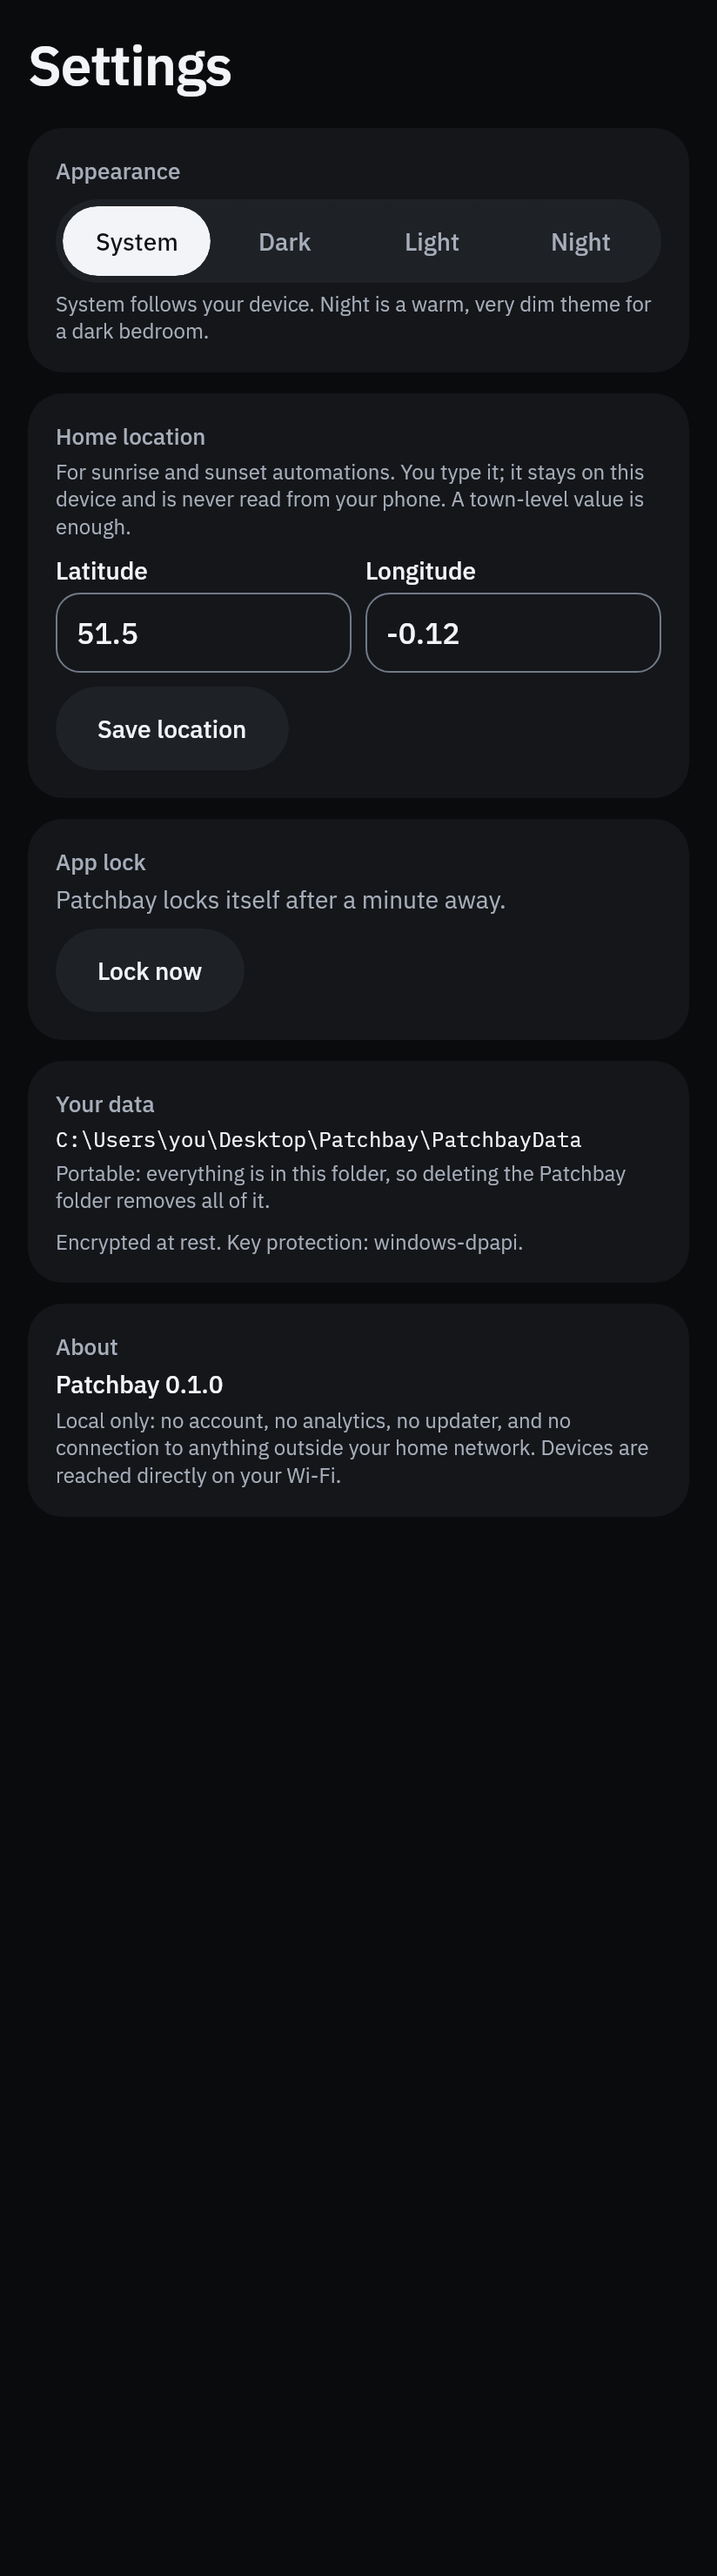
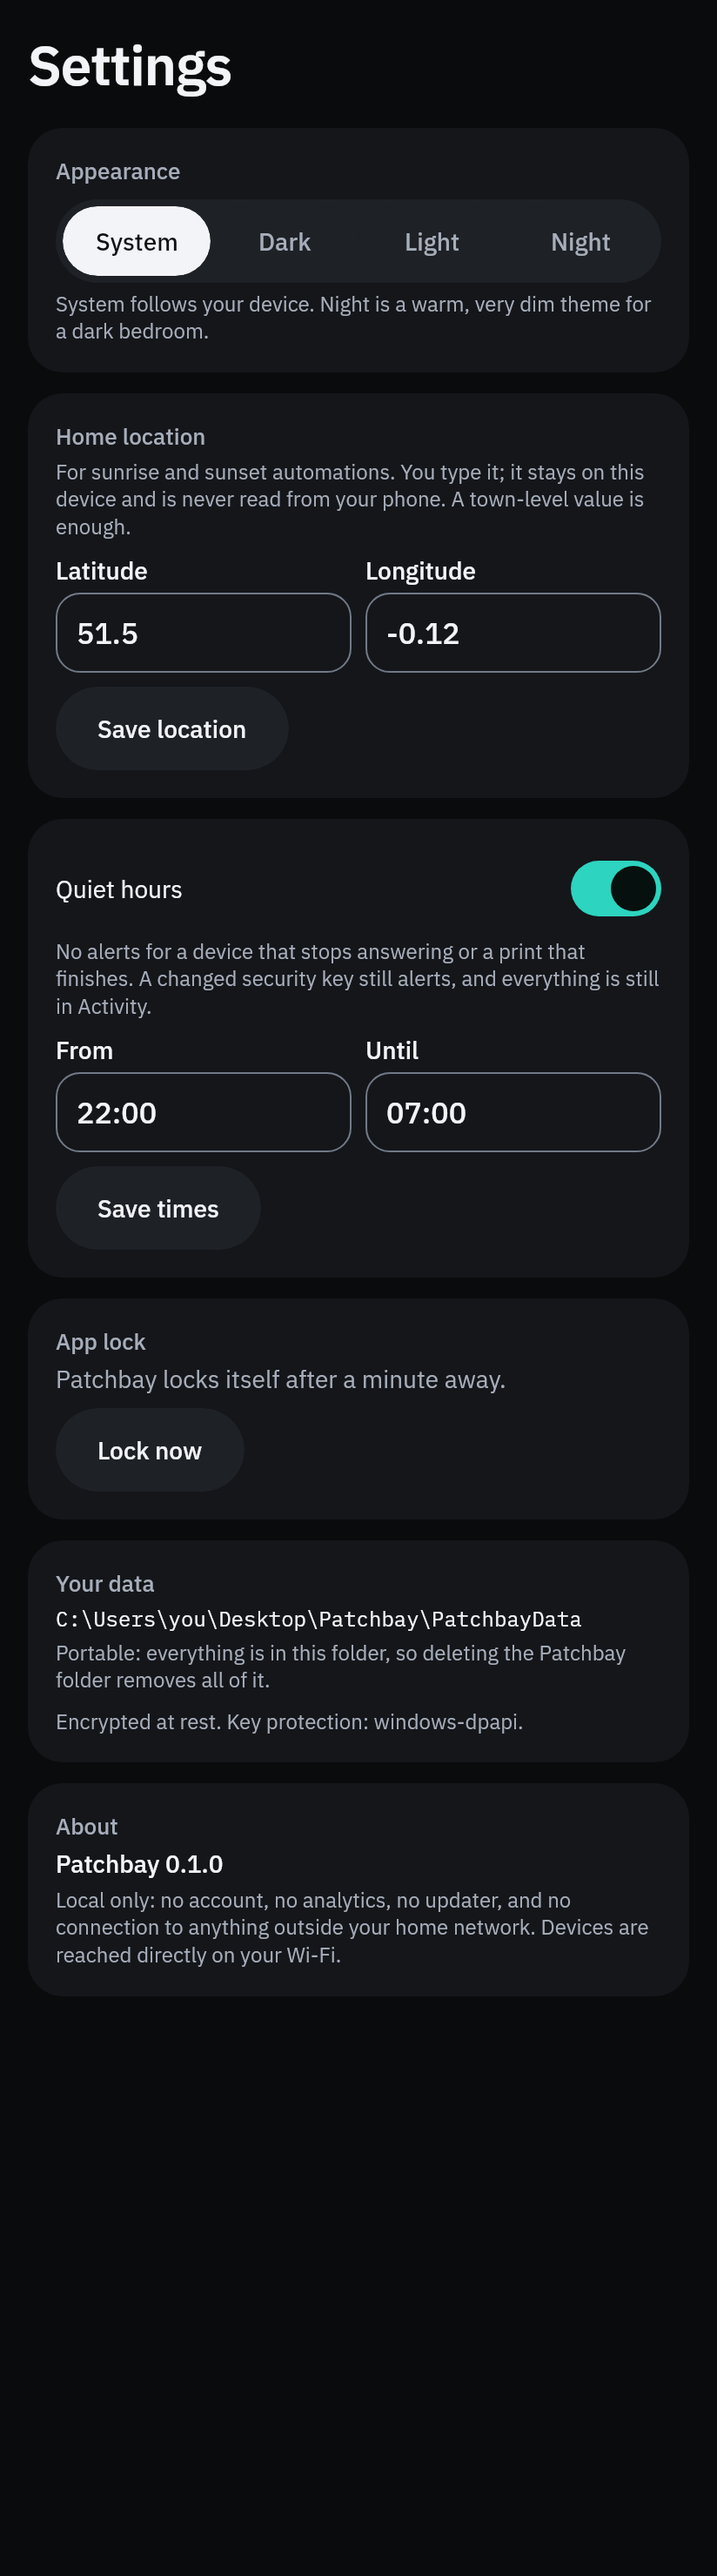
docs: re-record the design screenshots (quiet-hours panel, command-bar rail)
Claude-Session: https://claude.ai/code/session_01VKgrBEm7ZaxNZiCGqfgE4v

Changed region(s): [[0.0607, 0.3108, 0.8495, 0.6838], [0.091, 0.7149, 0.4551, 0.777], [0.7888, 0.3108, 0.8799, 0.373]]

diff --git a/docs/design/screens/README.md b/docs/design/screens/README.md
@@ -2,7 +2,7 @@
 
 These PNGs are rendered by `ui/src/desktopTest/.../ScreenshotTest.kt` from the deterministic demo home.
 
-**Recorded 2026-11-09** from the CI render of commit `218e25a` (34 PNGs: light, dark and night, phone and desktop, including the live tile screens the Network screen and Settings), after the devices-first layout, the Automations screen and the motion pass (ADR 0009). The
+**Recorded 2026-11-12** from the CI render of commit `e7c1fde` (34 PNGs: light, dark and night, phone and desktop, including the live tile screens the Network screen and Settings), after the devices-first layout, the Automations screen and the motion pass (ADR 0009). The
 `:ui:desktopTest` run in CI compares every render with these and fails on drift (ADR 0006).
 
 When you change the UI on purpose, re-record and review the images before committing them. In CI, run the
